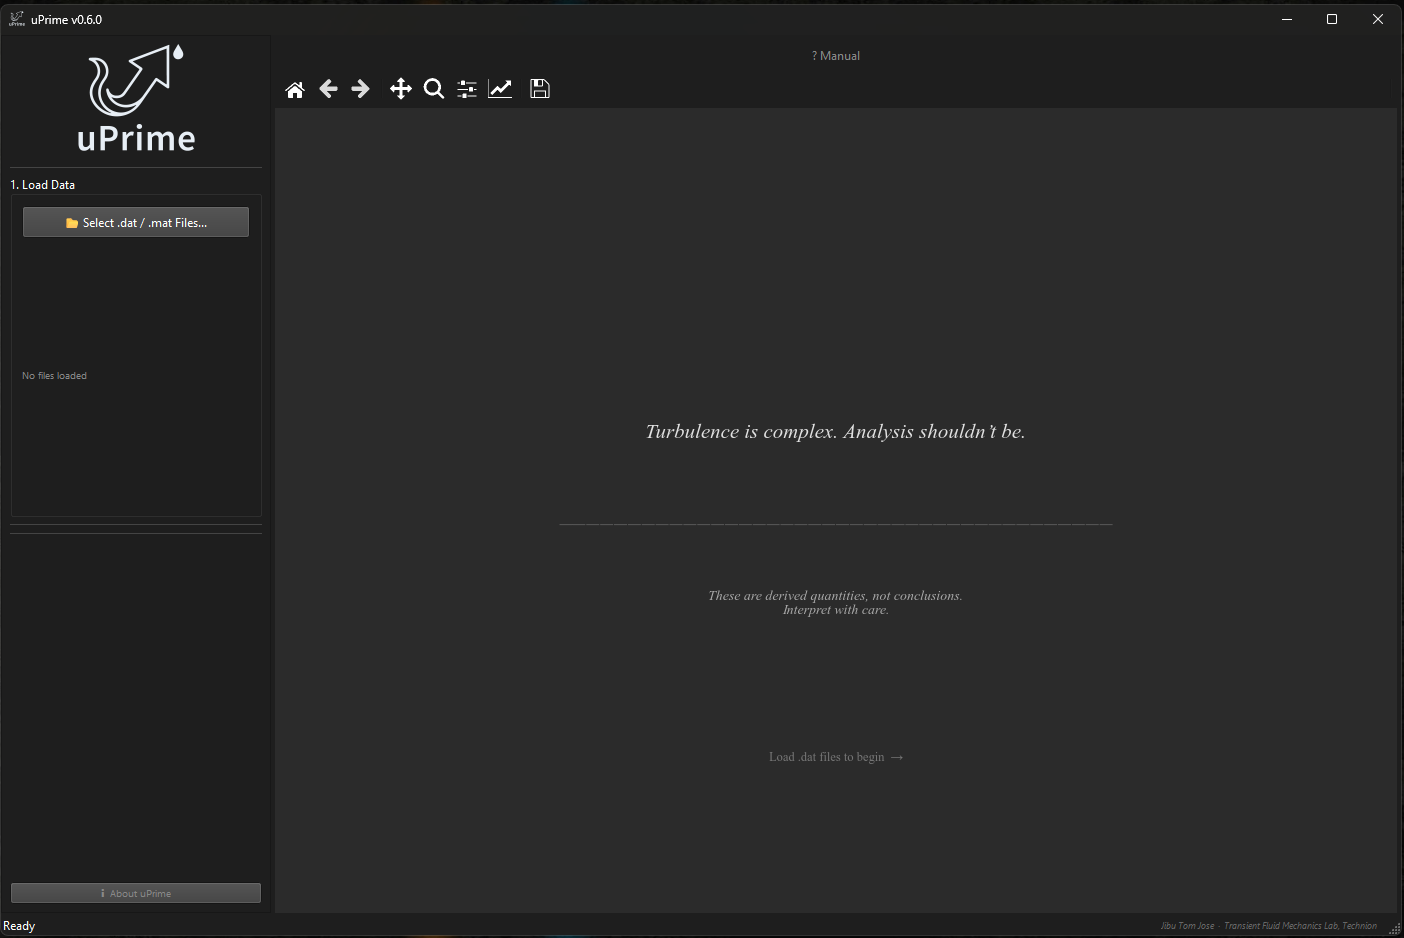
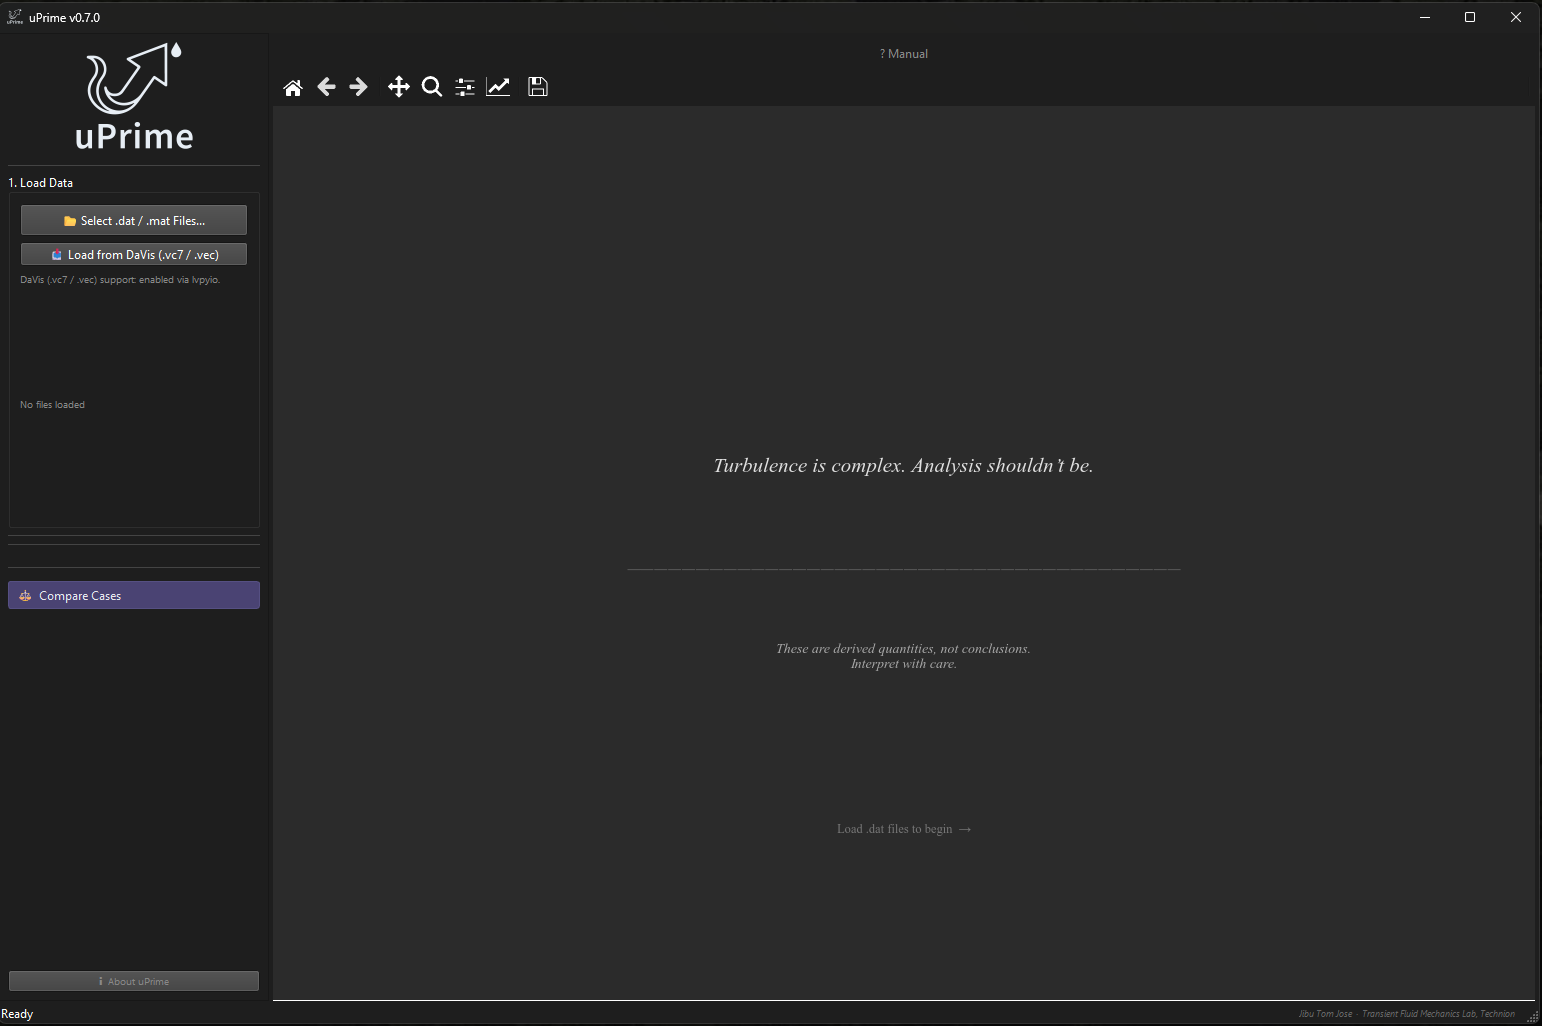
Add missing images

diff --git a/docs/manual/index.md b/docs/manual/index.md
@@ -2,14 +2,14 @@
 # uPrime
 
 +++ {"kind": "centered"}
-:::{image} ../../assets/logo.png
+:::{image} user_guide/logo.png
 :width: 10%
 :alt: uPrime logo
 :class: dark:hidden
 :::
 
 
-:::{image} ../../assets/logo_dark.png
+:::{image} user_guide/logo_upblue.png
 :width: 10%
 :alt: uPrime logo
 :class: hidden dark:block
